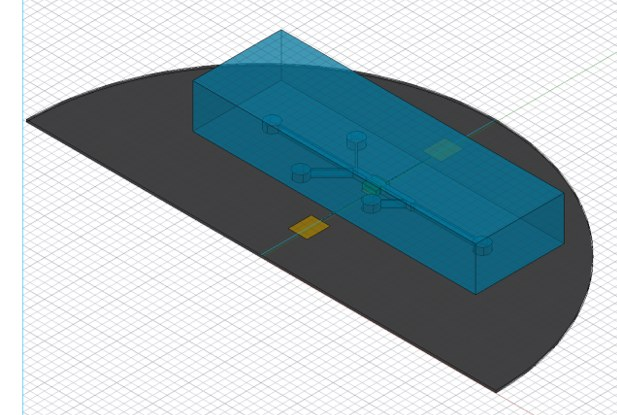
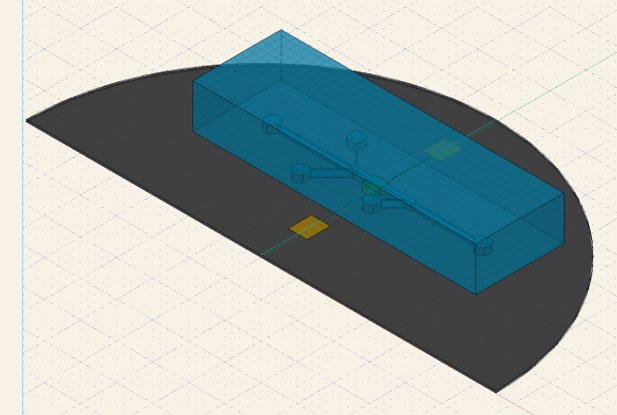
Thesis gallery: blend the CAD renders and setup photo into the cream
Tint the two CAD render backgrounds to cream and drop frames on them and
the setup photo so every figure matches the chip diagrams.

Claude-Session: https://claude.ai/code/session_019XjcnZCmFjdjA7N8MMH7qV

Changed region(s): [[0.0, 0.0, 1.0, 1.0]]

diff --git a/index.html b/index.html
@@ -1728,7 +1728,7 @@ html.js-reveal .reveal.is-revealed { opacity: 1; transform: none; }
           <li class="bench-photo bench-photo--fit bench-photo--diagram" tabindex="0" role="button" aria-label="Enlarge photo: The blueprint">
             <span class="tape" aria-hidden="true"></span>
             <img src="images/thesis/channel-design.png" data-full="images/thesis/channel-design-evolution.png" alt="Diagram of the flow channel: a cell inlet with a serpentine, a three-way intersection with two angled sheath inlets, the electroporation zone, a mRNA inlet joining at 90 degrees, a second serpentine for mixing, and the outlet" loading="lazy" onerror="handleImgError(this, 'PHOTO', '#e3d6c2')">
-            <figcaption><span class="bench-script">The blueprint</span><span class="bench-stage">Design</span><span class="bench-fig">The flow channel and how it evolved, D0 → D2.2</span><span class="bench-note"><span class="bench-cad-fig bench-cad-fig--wide bench-cad-fig--plain"><img src="images/thesis/channel-labelled.jpg" alt="Labelled flow-channel diagram: Inlet 1 cells, Inlets 2 and 3 EP buffer, the EP zone, Inlet 4 GFP plasmid, and the combined outlet, with the direction of flow" loading="lazy"><span>The channel, labelled: cells in at inlet 1, EP buffer sheath at inlets 2 and 3, the EP zone, the GFP plasmid in at inlet 4, and the shared outlet.</span></span><span class="bench-note-lead">Cells enter on the left and tumble through a serpentine so fresh membrane keeps facing the field. Two sheath inlets at ±45° pin the cell stream to the centre line, the same distance from each electrode. The mRNA joins after the electroporation zone, so the field never touches it, and a second serpentine mixes it in before the outlet.</span><span class="bench-cad"><span class="bench-cad-head">How the channel meets the electrodes</span><span class="bench-cad-row"><span class="bench-cad-fig"><img src="images/thesis/cad-electrodes.jpg" alt="CAD render: two green glassy-carbon electrodes crossing the flow channel in the electroporation zone" loading="lazy"><span>The glassy-carbon electrodes (green) stand across the channel in the EP zone, so every cell passes between them.</span></span><span class="bench-cad-fig"><img src="images/thesis/cad-channel.jpg" alt="CAD render: a transparent blue PDMS flow channel bonded over the electrode wafer" loading="lazy"><span>The PDMS flow channel (blue) is bonded over the electrode wafer, sealing the fluid path on top of them.</span></span></span></span><span class="bench-steps"><span><b>D0</b>A simple 1 mm channel to the EP zone, with the three-inlet intersection and a 45° cargo inlet.</span><span><b>D1</b>Sinusoidal serpentines for cell rotation and mixing, a wider EP zone so the 100 µm electrodes sit flush, and a funnel after the mRNA inlet.</span><span><b>D2</b>Testing showed clogging and channels that were too wide. Sharper curves (FEA showed better mixing), no funnel, the mRNA inlet turned from 45° to 90° to stop leakage, and the EP zone narrowed from 1000 µm to 100 µm, then 50 µm.</span><span><b>D2.1–2.2</b>A retaining wall and a straightened, shortened segment to stop the mold lifting off the wafer.</span></span></span></figcaption>
+            <figcaption><span class="bench-script">The blueprint</span><span class="bench-stage">Design</span><span class="bench-fig">The flow channel and how it evolved, D0 → D2.2</span><span class="bench-note"><span class="bench-cad-fig bench-cad-fig--wide bench-cad-fig--plain"><img src="images/thesis/channel-labelled.jpg" alt="Labelled flow-channel diagram: Inlet 1 cells, Inlets 2 and 3 EP buffer, the EP zone, Inlet 4 GFP plasmid, and the combined outlet, with the direction of flow" loading="lazy"><span>The channel, labelled: cells in at inlet 1, EP buffer sheath at inlets 2 and 3, the EP zone, the GFP plasmid in at inlet 4, and the shared outlet.</span></span><span class="bench-note-lead">Cells enter on the left and tumble through a serpentine so fresh membrane keeps facing the field. Two sheath inlets at ±45° pin the cell stream to the centre line, the same distance from each electrode. The mRNA joins after the electroporation zone, so the field never touches it, and a second serpentine mixes it in before the outlet.</span><span class="bench-cad"><span class="bench-cad-head">How the channel meets the electrodes</span><span class="bench-cad-row"><span class="bench-cad-fig bench-cad-fig--plain"><img src="images/thesis/cad-electrodes.jpg" alt="CAD render: two green glassy-carbon electrodes crossing the flow channel in the electroporation zone" loading="lazy"><span>The glassy-carbon electrodes (green) stand across the channel in the EP zone, so every cell passes between them.</span></span><span class="bench-cad-fig bench-cad-fig--plain"><img src="images/thesis/cad-channel.jpg" alt="CAD render: a transparent blue PDMS flow channel bonded over the electrode wafer" loading="lazy"><span>The PDMS flow channel (blue) is bonded over the electrode wafer, sealing the fluid path on top of them.</span></span></span></span><span class="bench-steps"><span><b>D0</b>A simple 1 mm channel to the EP zone, with the three-inlet intersection and a 45° cargo inlet.</span><span><b>D1</b>Sinusoidal serpentines for cell rotation and mixing, a wider EP zone so the 100 µm electrodes sit flush, and a funnel after the mRNA inlet.</span><span><b>D2</b>Testing showed clogging and channels that were too wide. Sharper curves (FEA showed better mixing), no funnel, the mRNA inlet turned from 45° to 90° to stop leakage, and the EP zone narrowed from 1000 µm to 100 µm, then 50 µm.</span><span><b>D2.1–2.2</b>A retaining wall and a straightened, shortened segment to stop the mold lifting off the wafer.</span></span></span></figcaption>
           </li>
           <li class="bench-photo" tabindex="0" role="button" aria-label="Enlarge photo: Layer by layer">
             <span class="tape" aria-hidden="true"></span>
@@ -1748,7 +1748,7 @@ html.js-reveal .reveal.is-revealed { opacity: 1; transform: none; }
           <li class="bench-photo" tabindex="0" role="button" aria-label="Enlarge photo: Wired up">
             <span class="tape" aria-hidden="true"></span>
             <img src="images/thesis/wired-jig.jpg" alt="Microfluidic chip in a pink 3D-printed jig with oscilloscope probes clipped on" loading="lazy" onerror="handleImgError(this, 'PHOTO', '#e3d6c2')">
-            <figcaption><span class="bench-script">Wired up</span><span class="bench-stage">Testing</span><span class="bench-fig">The chip clamped in its jig with probes attached</span><span class="bench-note"><span class="bench-note-lead">The full bench for a run. Syringe pumps push the cell, buffer and plasmid streams through the chip. A function generator (AWG) makes the square wave, a breadboard amplifier powered by the DC supply boosts it, and the oscilloscope watches the voltage across the electrodes while the chip sits in its jig.</span><span class="bench-cad"><span class="bench-cad-head">The experimental setup</span><span class="bench-cad-fig bench-cad-fig--wide"><img src="images/thesis/setup-bench.jpg" alt="Labelled photo of the electroporation test bench: syringe pumps, the microfluidic chip, an arbitrary waveform generator, a DC power supply, an oscilloscope, and a breadboard amplifier circuit" loading="lazy"><span>Top to bottom: syringe pumps and the microfluidic chip, then the waveform generator, DC supply and oscilloscope, with the breadboard amplifier that drives the electrodes.</span></span></span></span></figcaption>
+            <figcaption><span class="bench-script">Wired up</span><span class="bench-stage">Testing</span><span class="bench-fig">The chip clamped in its jig with probes attached</span><span class="bench-note"><span class="bench-note-lead">The full bench for a run. Syringe pumps push the cell, buffer and plasmid streams through the chip. A function generator (AWG) makes the square wave, a breadboard amplifier powered by the DC supply boosts it, and the oscilloscope watches the voltage across the electrodes while the chip sits in its jig.</span><span class="bench-cad"><span class="bench-cad-head">The experimental setup</span><span class="bench-cad-fig bench-cad-fig--wide bench-cad-fig--plain"><img src="images/thesis/setup-bench.jpg" alt="Labelled photo of the electroporation test bench: syringe pumps, the microfluidic chip, an arbitrary waveform generator, a DC power supply, an oscilloscope, and a breadboard amplifier circuit" loading="lazy"><span>Top to bottom: syringe pumps and the microfluidic chip, then the waveform generator, DC supply and oscilloscope, with the breadboard amplifier that drives the electrodes.</span></span></span></span></figcaption>
           </li>
           <li class="bench-photo" tabindex="0" role="button" aria-label="Enlarge photo: Three streams, one lane">
             <span class="tape" aria-hidden="true"></span>
